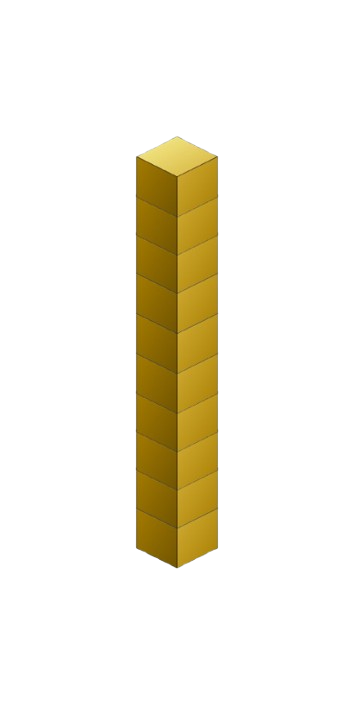
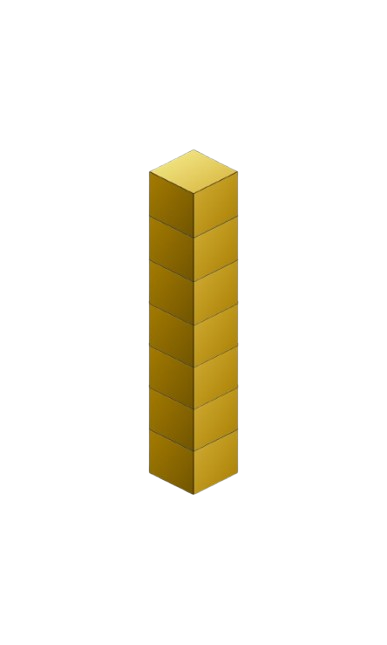
hotfix: fixed error on ten display on subtraction game

diff --git a/src/games/subtraction/scenes/GameScene.ts b/src/games/subtraction/scenes/GameScene.ts
@@ -4,11 +4,6 @@ import { LevelCompletedScene } from "@/games/common/scenes/LevelCompletedScene";
 import Phaser from "phaser";
 import MathLogic from "../logic/logic";
 import SubtractionLevel, { LevelType } from "../logic/MathLevel";
-import {
-  createDefaultSubtractionLevels,
-  createSubtractionLevels,
-} from "../logic/levelFactory";
-import type { SubtractionLevelDefinition } from "../logic/levelFactory";
 import { AnimationManager } from "@/games/sum/components/animations/AnimationManager";
 import { SubmitButton } from "@/games/sum/components/buttons/SubmitButton";
 import { NumberDisplay } from "../components/ui/NumberDisplay";

diff --git a/src/games/subtraction/components/ui/NumberDisplay.ts b/src/games/subtraction/components/ui/NumberDisplay.ts
@@ -31,7 +31,7 @@ export class NumberDisplay {
       // Centralizar melhor quando há números maiores (6-10)
       startX = maxNumber > 5 ? 320 : 320;
       spacing = maxNumber > 5 ? 160 : 200;
-      scale = maxNumber > 5 ? 0.4 : 0.5;
+      scale = maxNumber > 5 ? 0.35 : 0.5;
     }
 
     const startY = 110;
